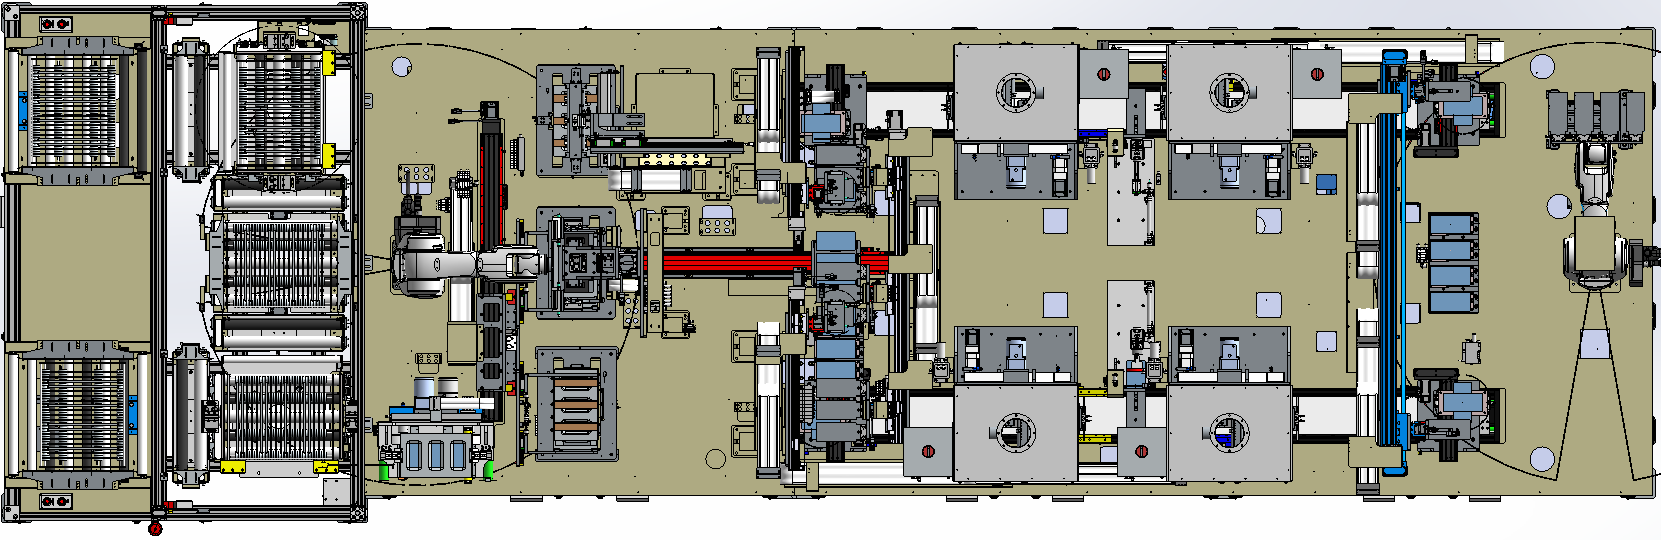
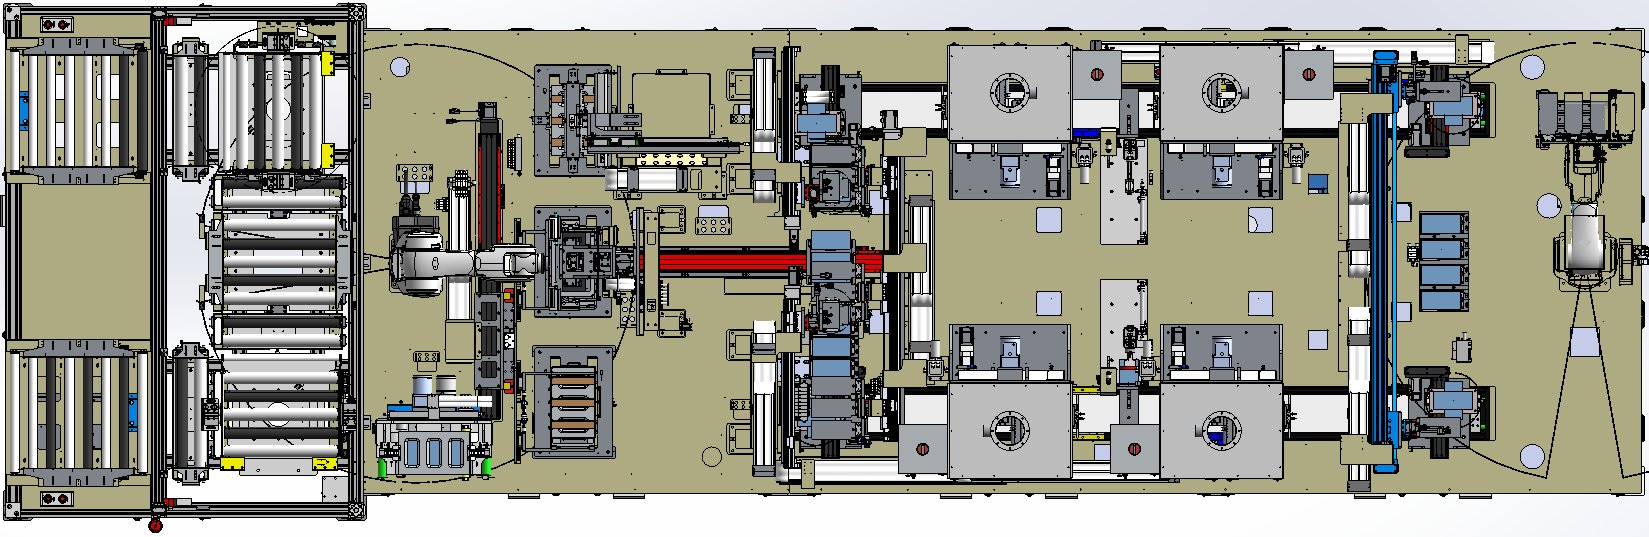
update Status signal Image

Changed region(s): [[0.0, 0.0, 1.0, 0.9832], [0.6186, 0.4171, 0.6495, 0.4469], [0.2784, 0.0894, 0.3093, 0.1192]]

diff --git a/PIFilmAutoDetachCleanMC/MVVM/Views/AutoView.xaml b/PIFilmAutoDetachCleanMC/MVVM/Views/AutoView.xaml
@@ -300,7 +300,71 @@
                     </Image>
                 </Border>
             </Grid>
-
+            <Grid Grid.Column="5"
+                  Grid.Row="2"
+                  Grid.RowSpan="3"
+                  Grid.ColumnSpan="2">
+                <Grid.ColumnDefinitions>
+                    <ColumnDefinition Width="0.4*"/>
+                    <ColumnDefinition Width="1.5*"/>
+                    <ColumnDefinition Width="1.1*"/>
+                    <ColumnDefinition Width="1.5*"/>
+                </Grid.ColumnDefinitions>
+                <Grid.RowDefinitions>
+                    <RowDefinition/>
+                    <RowDefinition/>
+                </Grid.RowDefinitions>
+                <!--Wet Clean Left Image overlay-->
+                <Border Grid.Column="1">
+                    <Image Source="{StaticResource WetCleanImageDetachLeft}"
+                           Stretch="Fill">
+                        <Image.Visibility>
+                            <MultiBinding Converter="{StaticResource BooleanOrToVisibilityConverter}">
+                                <Binding Path="Devices.Inputs.WetCleanPusherLeftDown.Value"/>
+                                <Binding Path="Devices.Outputs.WetCleanPusherLeftDown.Value"/>
+                            </MultiBinding>
+                        </Image.Visibility>
+                    </Image>
+                </Border>
+                <!--AF Clean Left Image overlay-->
+                <Border Grid.Column="3">
+                    <Image Source="{StaticResource AFCleanImageDetachLeft}"
+                           Stretch="Fill">
+                        <Image.Visibility>
+                            <MultiBinding Converter="{StaticResource BooleanOrToVisibilityConverter}">
+                                <Binding Path="Devices.Inputs.AfCleanPusherLeftDown.Value"/>
+                                <Binding Path="Devices.Outputs.AfCleanPusherLeftDown.Value"/>
+                            </MultiBinding>
+                        </Image.Visibility>
+                    </Image>
+                </Border>
+                <!--Wet Clean Left Image overlay-->
+                <Border Grid.Column="1" 
+                        Grid.Row="1">
+                    <Image Source="{StaticResource WetCleanImageDetachRight}"
+                           Stretch="Fill">
+                        <Image.Visibility>
+                            <MultiBinding Converter="{StaticResource BooleanOrToVisibilityConverter}">
+                                <Binding Path="Devices.Inputs.WetCleanPusherRightDown.Value"/>
+                                <Binding Path="Devices.Outputs.WetCleanPusherRightDown.Value"/>
+                            </MultiBinding>
+                        </Image.Visibility>
+                    </Image>
+                </Border>
+                <!--AF Clean Left Image overlay-->
+                <Border Grid.Column="3" 
+                        Grid.Row="1">
+                    <Image Source="{StaticResource AFCleanImageDetachRight}"
+                           Stretch="Fill">
+                        <Image.Visibility>
+                            <MultiBinding Converter="{StaticResource BooleanOrToVisibilityConverter}">
+                                <Binding Path="Devices.Inputs.AfCleanPusherRightDown.Value"/>
+                                <Binding Path="Devices.Outputs.AfCleanPusherRightDown.Value"/>
+                            </MultiBinding>
+                        </Image.Visibility>
+                    </Image>
+                </Border>
+            </Grid>
             
             <!--Plasma Status View-->
             <Border Grid.Row="0"

diff --git a/PIFilmAutoDetachCleanMC/MVVM/Views/Teaching/CleanUnitTeachingView.xaml b/PIFilmAutoDetachCleanMC/MVVM/Views/Teaching/CleanUnitTeachingView.xaml
@@ -194,7 +194,7 @@
                                        BorderThickness="0.5"
                                        Cursor="Hand"
                                        MouseLeftButtonDown="Label_MouseLeftButtonDown"
-                                       Content="{Binding Recipe.UnwinderTorque,Mode=TwoWay}"
+                                       Content="{Binding Recipe.UnWinderTorque,Mode=TwoWay}"
                                        HorizontalContentAlignment="Center"
                                        VerticalContentAlignment="Center"
                                        FontSize="14" />
